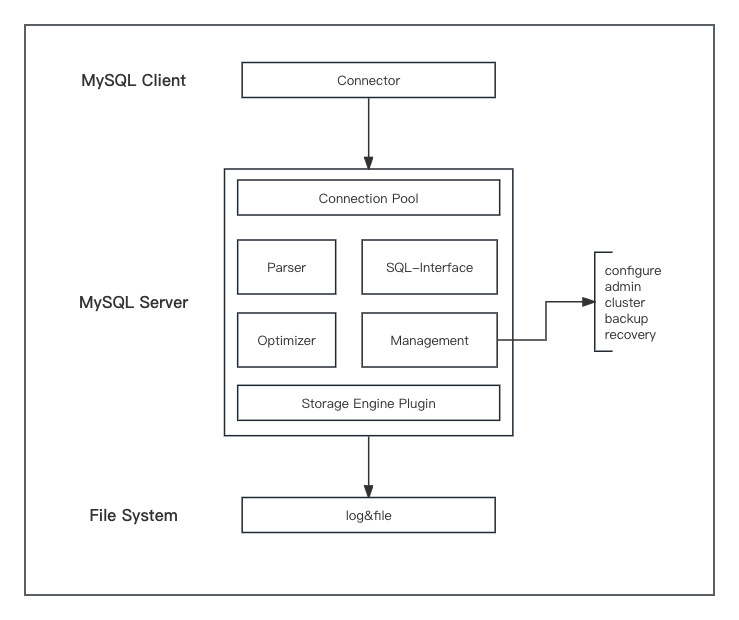
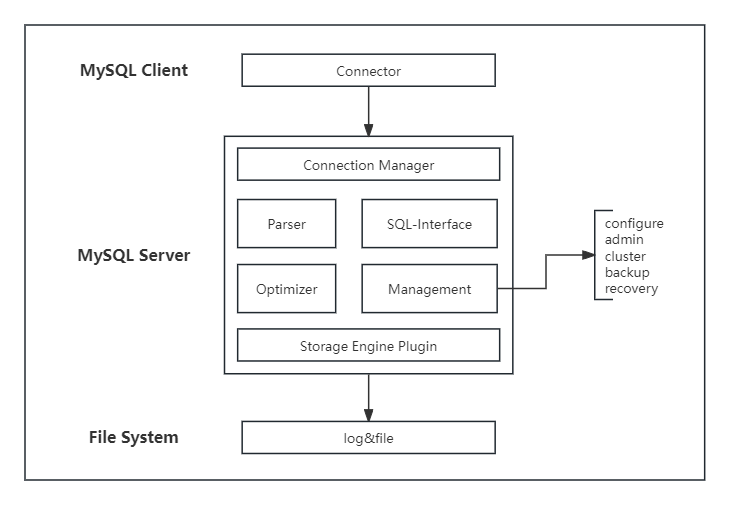
更新MySQL架构

diff --git a/MySQL/MySQL架构.md b/MySQL/MySQL架构.md
@@ -1,6 +1,14 @@
 # MySQL架构
 ![MySQL架构](../image/MySQL/MySQL架构.png)
 
+- Connection Manager：连接管理器负责处理客户端与MySQL服务器之间的连接，包括连接池和身份验证。
+- SQL Interface：负责处理与客户端应用程序的交互，接收和解析SQL语句，并将其发送到适当的模块进行处理。
+- Parser：解析器负责将SQL语句解析为内部数据结构，以便MySQL能够理解和执行查询。
+- Optimizer：优化器根据查询的复杂性和可用的索引信息，选择最佳的查询执行计划，以提高查询性能。
+- Execution Engine：执行引擎负责实际执行查询，包括表扫描、索引使用、连接操作等。
+- Management：管理相关的功能和工具，主要包括配置、管理、集群解决方案、备份和恢复。
+- Storage Engines：MySQL支持多个存储引擎，每个存储引擎负责数据的存储和管理。常见的存储引擎包括InnoDB、MyISAM、Memory、Archive等。
+
 # InnoDB架构
 ![InnoDB架构](../image/MySQL/innodb-architecture-5-7.png)
 
